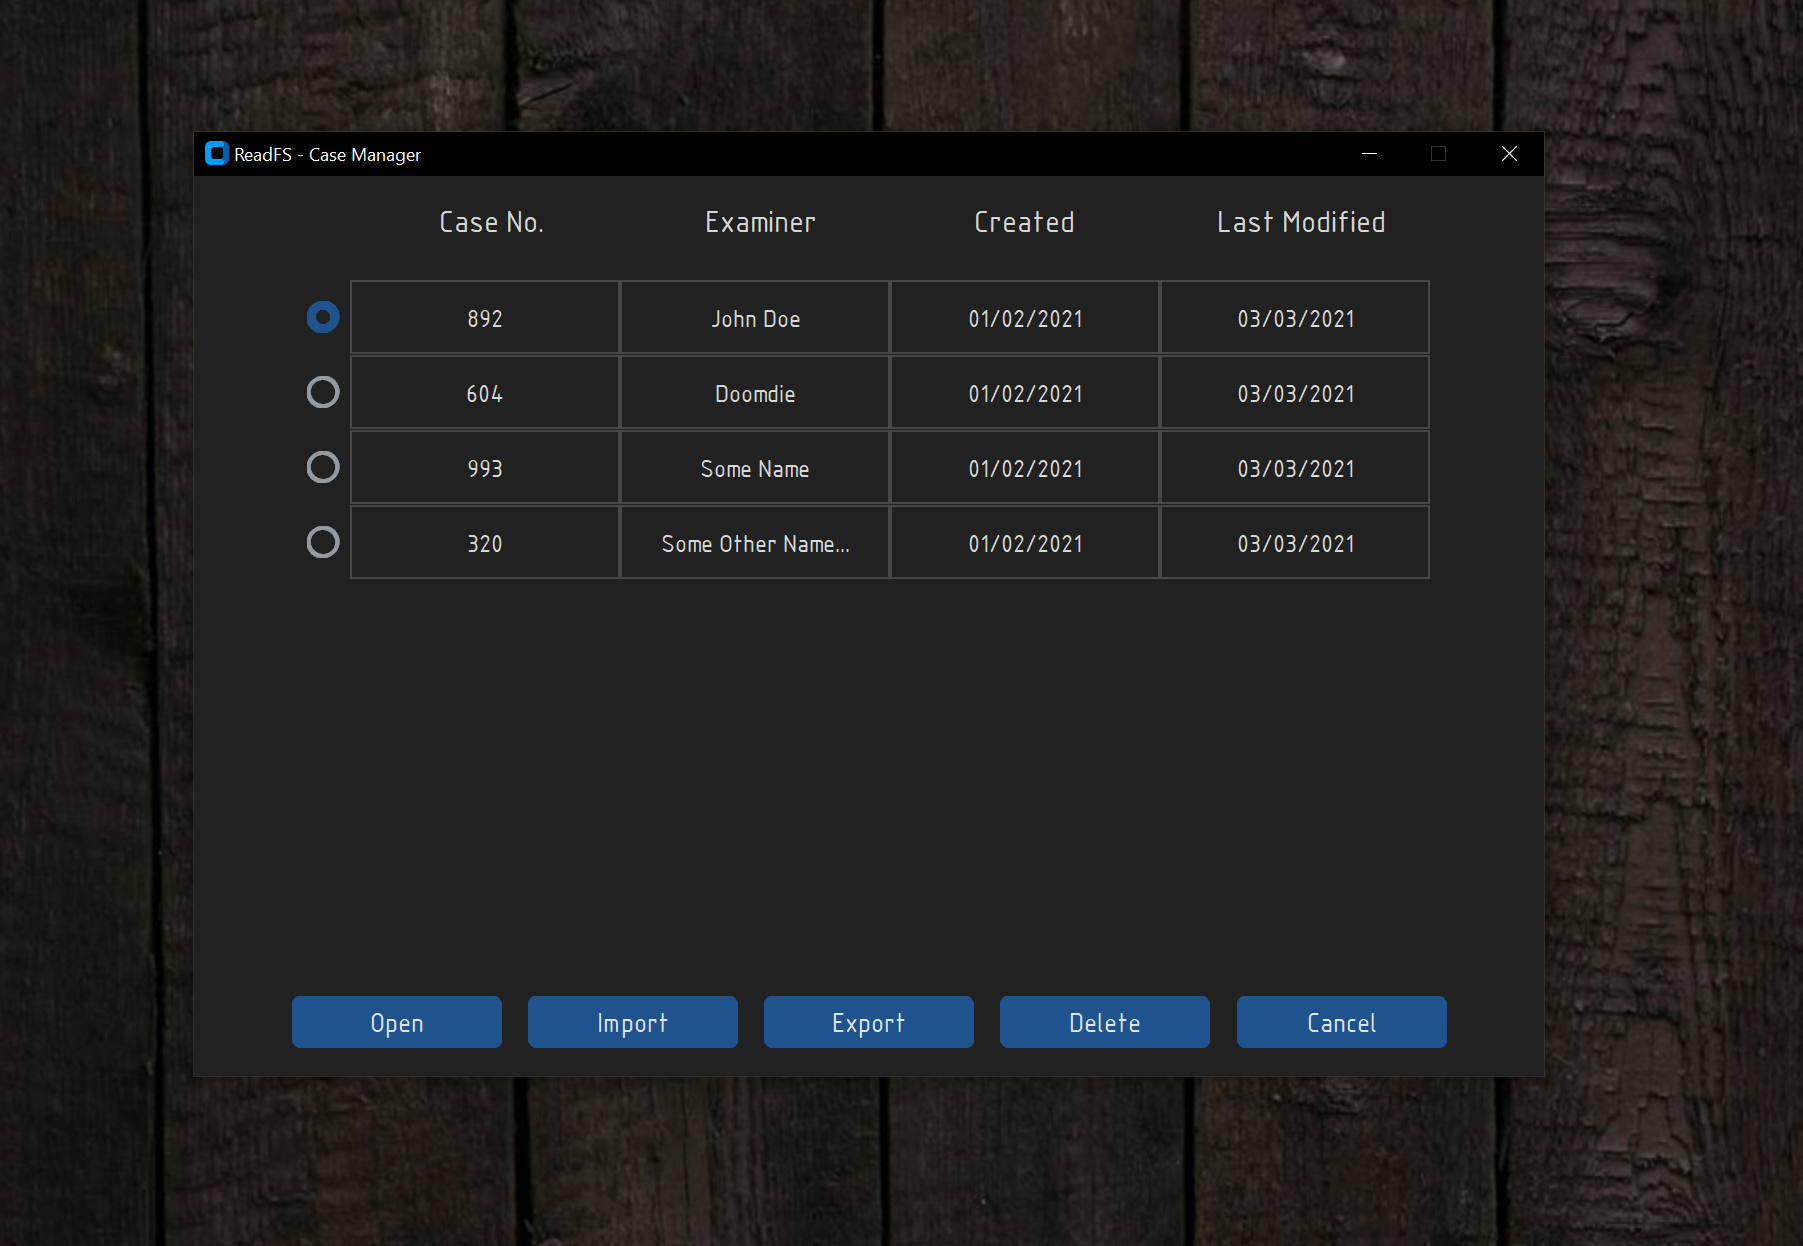
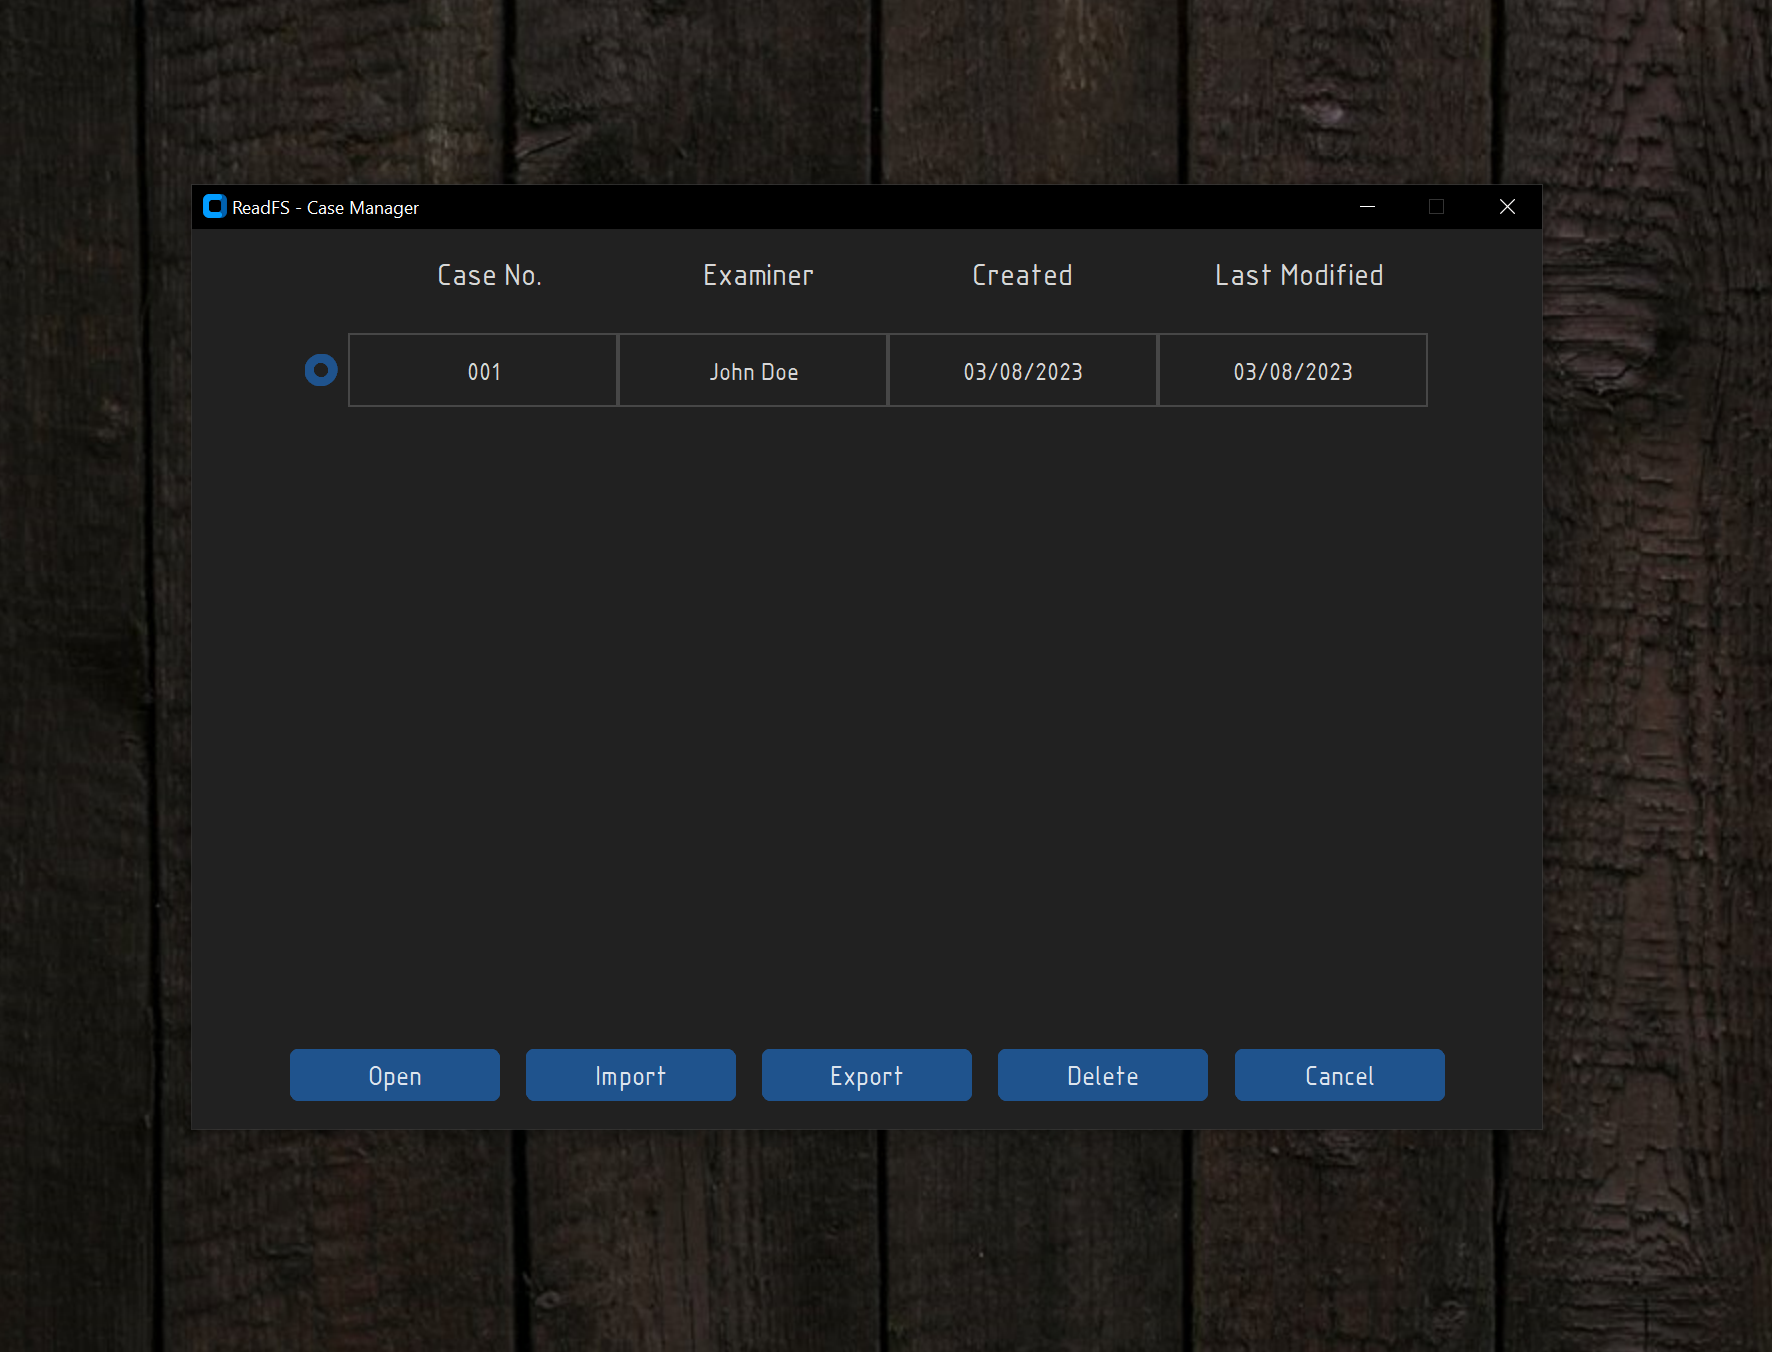
Updated readme.md and retook screenshot

diff --git a/readme.md b/readme.md
@@ -27,21 +27,26 @@ $> py readfs-gui.py
 ```
 
 After running this command this window should pop up:
+
 ![GUI](screenshots/menu_window.png)
 
-Clicking on the "New Case" button will open a new window where you will be able to create a new case. It is important to note
-that this action, in the future, will create a full environment for the case, including a database and a folder structure.
+Clicking on the ```New Case``` button will open a new window where you will be able to create a new case.
+The  ```Case No.``` and ```Examiner``` fields do not need to be filled in order to create a new case,
+but it's recommended to fill them in order to keep track of the cases that you have created.
+
 ![New Case](screenshots/new_case_window.png)
 
-Clicking on the "Quick Case" button will open a new window where you will be able to open a temporary case. This means that after
+Clicking on the ```Quick Case``` button will open a new window where you will be able to open a temporary case. This means that after
 closing the app, all the data will be lost. The idea behind this option is to allow the user to quickly parse a ReFS image without having to create a new case.
+For the time being, this option is not working.
+
 ![Quick Case](screenshots/quick_case_window.png)
 
-Clicking on the "Case Manager" button will open a new window where you will be able to manage all the cases that you have created. 
-This includes open, import, export and delete cases. As of now, for showcasing purposes only the "Import" and "Delete" buttons are working.
-Clicking any other buttons will reopen the menu window.
-![Case Manager](screenshots/case_manager_window.png)
+Clicking on the ```Case Manager``` button will open a new window where you will be able to manage all the cases that you have created. 
+This includes open, import, export and delete cases. As of now only the ```Delete``` option is working, all the other options
+return to the main menu.
 
+![Case Manager](screenshots/case_manager_window.png)
 
 # CLI Usage
 # Current capabilities
